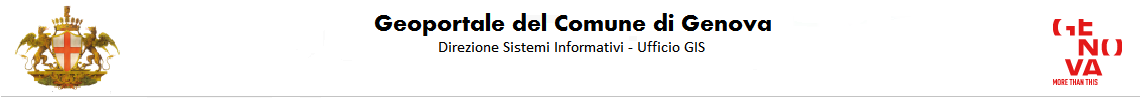
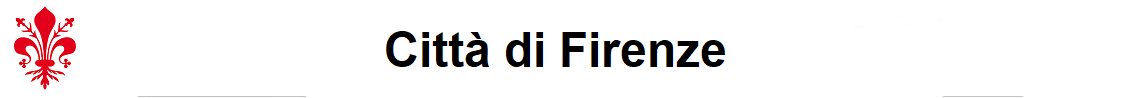
fix requested changes

diff --git a/webpack.config.js b/webpack.config.js
@@ -29,35 +29,19 @@ module.exports = require('./MapStore2/build/buildConfig')(
         "@js": path.resolve(__dirname, "js")
     }, {
         '/rest': {
-            target: "https://dev-mapstore.geosolutionsgroup.com/mapstore",
-            secure: false,
-            headers: {
-                host: "dev-mapstore.geosolutionsgroup.com"
-            }
+            target: "http://localhost:8080/mapstore"
         },
         '/proxy': {
-            target: "https://dev-mapstore.geosolutionsgroup.com/mapstore",
-            secure: false,
-            headers: {
-                host: "dev-mapstore.geosolutionsgroup.com"
-            }
+            target: "http://localhost:8080/mapstore"
         },
         '/pdf': {
-            target: "https://dev-mapstore.geosolutionsgroup.com/mapstore",
-            secure: false,
-            headers: {
-                host: "dev-mapstore.geosolutionsgroup.com"
-            }
+            target: "http://localhost:8080/mapstore"
         },
         '/mapstore/pdf': {
-            target: "https://dev-mapstore.geosolutionsgroup.com",
-            secure: false,
-            headers: {
-                host: "dev-mapstore.geosolutionsgroup.com"
-            }
+            target: "http://localhost:8080"
         },
         '/geofence': {
-            target: "http://dev-mapstore.geosolutionsgroup.com"
+            target: "http://localhost:8080"
         }
     }
 );

diff --git a/embedded.html b/embedded.html
@@ -4,7 +4,7 @@
         <meta charset="UTF-8">
         <meta http-equiv="Content-Type" content="text/html;charset=UTF-8">
         <meta name="viewport" content="width=device-width, initial-scale=1">
-        <title>GeoPortale - Comune di Firenze</title>
+        <title>Risorse Dati e SIT - Comune di Firenze</title>
         <style>
             body {
                 margin: 0;

diff --git a/README.md b/README.md
@@ -16,6 +16,10 @@ Start the development application locally:
 
 `npm install`
 
+in one terminal
+`npm run backend`
+
+in the other terminal
 `npm start`
 
 The application runs at `http://localhost:8081` afterwards.
